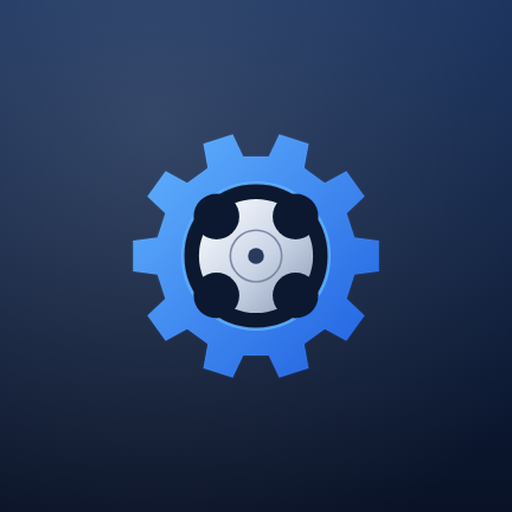
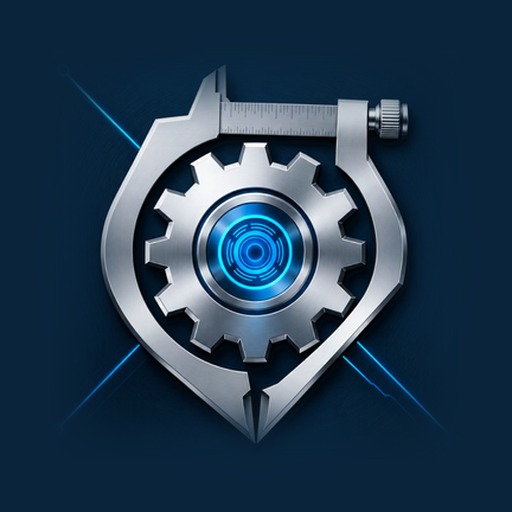
Hich-Officina 2.28.1: nuova icona, testata e sfondo fatti con Canva
Claude-Session: https://claude.ai/code/session_01BbyHZTctjVowPbLungDKds

diff --git a/app.js b/app.js
@@ -108,7 +108,7 @@
 
   // ----- impostazioni -----
   const IMPOSTAZIONI_SERIE = {
-    tema: 'scuro', guanti: false, tastierino: true, contrasto: false, promemoriaCopia: true, ftpChiedi: true, nmaxFresa: 24000, nmaxTornio: 3000, zSic: 50, zR: 2, refrig: true, g43: true, numerare: false,
+    tema: 'scuro', guanti: false, sfondo: true, tastierino: true, contrasto: false, promemoriaCopia: true, ftpChiedi: true, nmaxFresa: 24000, nmaxTornio: 3000, zSic: 50, zR: 2, refrig: true, g43: true, numerare: false,
     codLimite: 'G50', codFiletto: 'G32', xCambio: '', zCambio: 50, fineZ: '', numProg: 1, costoOra: 60,
     postFresa: 'iso', postTornio: 'iso', ftpHost: '', ftpPorta: 21, ftpUtente: '', ftpPassword: '', ftpCartella: '', nomeFtp: 'O0001.nc'
   };
@@ -120,6 +120,7 @@
     else document.documentElement.removeAttribute('data-theme');
     document.body.classList.toggle('guanti', !!imp().guanti);
     document.body.classList.toggle('contrasto', !!imp().contrasto);
+    document.body.classList.toggle('con-sfondo', imp().sfondo !== false);
   }
 
   // ----- materiali: quelli di serie con le modifiche fatte sul telefono -----
@@ -447,7 +448,7 @@
     migra, hash, chiedi, conferma, SCHEMA,
     O, $, el, esc, fmt, arrot, icona, mem, salva, sezione, imp, IMPOSTAZIONI_SERIE, applicaTema, materiali, materiale, sceltaMateriali,
     avviso, modulo, numeri, ANDROID, misuratore, griglia, info, copia, scarica, condividi, condividiFile, salvaIn, stampa, scegliTesto, Foto, riduciFoto, pulsantiFoto, schermoPieno, ruotaSchermo, campoNum, chiudiTastierino, mailSegnalazione,
-    schermi: {}, param: {}, VERSIONE: '2.28.0'
+    schermi: {}, param: {}, VERSIONE: '2.28.1'
   };
   window.App = App;
 
@@ -497,28 +498,9 @@
   window.addEventListener('hashchange', () => { App._dentro = true; mostra(); });
 
   // ----- home -----
-  const SCENA = '<svg class="scena" viewBox="0 0 400 250" preserveAspectRatio="xMidYMid slice" role="img" aria-label="Fresa che lavora un blocco di acciaio">' +
-    '<defs><linearGradient id="gC" x1="0" y1="0" x2="0" y2="1"><stop offset="0" stop-color="#1a2b4a"/><stop offset="1" stop-color="#070c16"/></linearGradient>' +
-    '<linearGradient id="gM" x1="0" y1="0" x2="1" y2="0"><stop offset="0" stop-color="#5b6678"/><stop offset=".45" stop-color="#d9e1ec"/><stop offset="1" stop-color="#4a5466"/></linearGradient>' +
-    '<linearGradient id="gF" x1="0" y1="0" x2="1" y2="0"><stop offset="0" stop-color="#6b7486"/><stop offset=".5" stop-color="#f2f5fa"/><stop offset="1" stop-color="#5a6274"/></linearGradient>' +
-    '<linearGradient id="gB" x1="0" y1="0" x2="0" y2="1"><stop offset="0" stop-color="#9aa6b8"/><stop offset="1" stop-color="#4b5567"/></linearGradient>' +
-    '<radialGradient id="gL" cx=".62" cy=".35" r=".6"><stop offset="0" stop-color="#3d7bff" stop-opacity=".35"/><stop offset="1" stop-color="#3d7bff" stop-opacity="0"/></radialGradient></defs>' +
-    '<rect width="400" height="250" fill="url(#gC)"/><rect width="400" height="250" fill="url(#gL)"/>' +
-    '<g opacity=".18" stroke="#8fb4ff" stroke-width=".6">' + Array.from({ length: 9 }, (_, i) => '<path d="M' + (i * 50) + ' 0v250"/>').join('') + '</g>' +
-    // mandrino
-    '<rect x="196" y="-10" width="96" height="62" rx="6" fill="url(#gM)"/><rect x="206" y="52" width="76" height="20" rx="3" fill="#3a4354"/>' +
-    '<path d="M214 72h60l-8 26h-44z" fill="url(#gM)"/><rect x="230" y="98" width="28" height="14" fill="#2c3442"/>' +
-    // fresa con le eliche
-    '<rect x="234" y="112" width="20" height="62" fill="url(#gF)"/>' +
-    '<g stroke="#4a5262" stroke-width="2.2" fill="none"><path d="M234 120l20 9M234 133l20 9M234 146l20 9M234 159l20 9"/></g>' +
-    // blocco
-    '<path d="M70 176l150-34 140 26-150 40z" fill="#c3ccd8"/><path d="M70 176v44l140 30v-42z" fill="url(#gB)"/><path d="M210 208v42l150-38v-44z" fill="#5d6779"/>' +
-    '<path d="M170 168l60-12 58 10-60 13z" fill="#7d889a"/><path d="M170 168v10l58 12v-11z" fill="#6a7486"/>' +
-    // trucioli
-    '<g fill="#e3c27a" opacity=".9"><path d="M262 168c8-6 14-2 10 4-3 4-8 2-6-1"/><path d="M216 172c-6-5-12-1-8 4 3 3 7 1 5-1"/><path d="M280 150c6-3 9 1 6 4"/><path d="M200 160c-5-2-8 2-5 4"/></g>' +
-    '<g fill="#fff" opacity=".7"><circle cx="270" cy="160" r="1.4"/><circle cx="290" cy="170" r="1"/><circle cx="210" cy="164" r="1.2"/></g>' +
-    '<rect y="150" width="400" height="100" fill="url(#gC)" opacity=".35"/></svg>';
-  const MARCHIO = '<svg viewBox="0 0 512 512" aria-hidden="true"><defs><linearGradient id="mg" x1="0" y1="0" x2="1" y2="1"><stop offset="0" stop-color="#63b4ff"/><stop offset="1" stop-color="#1f5fe0"/></linearGradient><linearGradient id="ma" x1="0" y1="0" x2="1" y2="1"><stop offset="0" stop-color="#ffffff"/><stop offset=".55" stop-color="#c9d4e6"/><stop offset="1" stop-color="#8a98b2"/></linearGradient><linearGradient id="mb" x1="0" y1="0" x2="0" y2="1"><stop offset="0" stop-color="#17305c"/><stop offset="1" stop-color="#091226"/></linearGradient><radialGradient id="ml" cx=".3" cy=".25" r=".9"><stop offset="0" stop-color="#fff" stop-opacity=".14"/><stop offset="1" stop-color="#fff" stop-opacity="0"/></radialGradient></defs><path d="M415.1,225.6 L454.4,230.9 L454.4,281.1 L415.1,286.4 L402.6,325.0 L431.3,352.4 L401.8,392.9 L366.9,374.1 L334.0,398.0 L341.2,437.0 L293.5,452.5 L276.3,416.7 L235.7,416.7 L218.5,452.5 L170.8,437.0 L178.0,398.0 L145.1,374.1 L110.2,392.9 L80.7,352.4 L109.4,325.0 L96.9,286.4 L57.6,281.1 L57.6,230.9 L96.9,225.6 L109.4,187.0 L80.7,159.6 L110.2,119.1 L145.1,137.9 L178.0,114.0 L170.8,75.0 L218.5,59.5 L235.7,95.3 L276.3,95.3 L293.5,59.5 L341.2,75.0 L334.0,114.0 L366.9,137.9 L401.8,119.1 L431.3,159.6 L402.6,187.0 Z" fill="url(#mg)"/><circle cx="256" cy="256" r="118.0" fill="#0b1830"/><circle cx="256" cy="256" r="118.0" fill="none" stroke="#5db0ff" stroke-width="5.0" opacity=".9"/><circle cx="256.0" cy="256.0" r="92.0" fill="url(#ma)"/><circle cx="319.8" cy="319.8" r="36.8" fill="#0b1830"/><circle cx="192.2" cy="319.8" r="36.8" fill="#0b1830"/><circle cx="192.2" cy="192.2" r="36.8" fill="#0b1830"/><circle cx="319.8" cy="192.2" r="36.8" fill="#0b1830"/><circle cx="256" cy="256" r="41.4" fill="none" stroke="#7d8aa6" stroke-width="3.0"/><circle cx="256" cy="256" r="12.9" fill="#2a3a5c"/></svg>';
+  // testata della home e marchio: immagini (icone/testata.jpg, icone/icona-192.png)
+  const SCENA = '<img class="scena" src="icone/testata.jpg" width="1170" height="630" alt="Fresa che lavora un ingranaggio in acciaio" decoding="async">';
+  const MARCHIO = '<img src="icone/icona-192.png" width="64" height="64" alt="" decoding="async">';
 
   const MENU = [
     ['dalDisegno', 'galleria', 'Dal disegno al pezzo', 'Foto del disegno: le quote lette e confermate diventano il pezzo e il programma'],

diff --git a/novita.html b/novita.html
@@ -9,14 +9,14 @@
 <meta property="og:type" content="website">
 <meta property="og:title" content="Novita · Hich-Officina">
 <meta property="og:description" content="Cronologia delle versioni di Hich-Officina.">
-<link rel="icon" href="icone/icona.svg" type="image/svg+xml">
+<link rel="icon" href="icone/icona-192.png" type="image/png">
 <link rel="apple-touch-icon" href="icone/icona-192.png">
 <link rel="stylesheet" href="sito.css">
 </head>
 <body>
 <a class="salta" href="#contenuto">Vai al contenuto</a>
 <header class="testata"><div class="largo">
-  <a class="marchio" href="index.html"><img src="icone/icona.svg" alt="" width="32" height="32"><span>Hich-Officina</span></a>
+  <a class="marchio" href="index.html"><img src="icone/icona-192.png" alt="" width="32" height="32"><span>Hich-Officina</span></a>
   <nav aria-label="Principale"><ul><li><a href="index.html">Home</a></li><li><a href="index.html#funzioni">Funzioni</a></li><li><a href="index.html#installa">Installa</a></li><li><a href="guida.html">Guida</a></li><li><a href="novita.html" aria-current="page">Novita</a></li><li><a href="privacy.html">Privacy</a></li></ul></nav>
   <a class="pul corto" href="app.html">Apri l'app</a>
 </div></header>
@@ -24,6 +24,7 @@
 <section class="sezione"><div class="largo stretto">
   <h1>Novita</h1>
   <p class="sotto">Cosa e cambiato in ogni versione, dalla piu recente.</p>
+  <article class="versione"><h2><span class="num">2.28.1</span> Nuova icona, testata e sfondo (fatti con Canva)</h2><ul><li>**Nuova icona**: un calibro che racchiude un ingranaggio con il centro azzurro, acciaio su blu notte. Per il telefono (quadrata e tonda di Android), per il negozio e per il sito. La cornice dell'immagine originale e stata tolta per usarla a tutto campo.</li><li>**Nuova testata della home**: un ingranaggio, il mandrino e le scintille. Dall'immagine originale sono ritagliati i pannelli con scritte in inglese e dati finti, che nell'app non devono comparire; sopra c'e una sfumatura scura per leggere titolo e ricerca.</li><li>**Sfondo con immagine** dietro le schermate (metallo scuro con ingranaggi), con una velatura che tiene i testi leggibili. Si toglie da Impostazioni, &quot;Sfondo con immagine&quot;; nel tema chiaro non c'e.</li><li>Il marchio nella home usa la nuova icona. Le immagini sono leggere (testata e sfondo meno di 200 KB) e funzionano anche senza rete.</li><li>Una prova controlla misure e peso delle immagini, che il funzionamento senza rete le includa e che lo sfondo non renda illeggibili i testi.</li></ul></article>
   <article class="versione"><h2><span class="num">2.28.0</span> Grafica: un colore per gruppo</h2><ul><li>La home ha **un colore per ogni gruppo**: Calcola giallo, Controlla verde, Officina viola, con il bordo colorato e l'icona nello stesso colore. Il blu resta il colore principale dell'app.</li><li>**Blu piu profondo** nel tema scuro (fondo, pannelli e bordi) e testi secondari piu leggibili.</li><li>**Tema chiaro** con i colori dei gruppi scuriti per leggersi bene sul bianco.</li><li>Una **prova automatica controlla il contrasto** (livello AA) di testi, pulsanti e colori dei gruppi in entrambi i temi.</li></ul></article>
   <article class="versione"><h2><span class="num">2.27.0</span> Velocita di taglio e avanzamento in primo piano</h2><ul><li>**In cima alla home** c'e il calcolo rapido: materiale, utensile e diametro (con il tastierino grande e i taglienti a un tocco) danno subito **giri al minuto, avanzamento e velocita di taglio**, piu fz o fn, passata e passo laterale.</li><li>Vale per tutti gli utensili (fresa, punta, alesatore, bareno, maschio, lamatore, inserto da tornio) e usa gli stessi dati della calcolatrice completa: i valori restano gli stessi tra le due. Il tasto &quot;Completa&quot; apre la calcolatrice con tutti gli utensili.</li><li>I giri restano limitati al massimo delle Impostazioni, e la nota ricorda che i valori sono di partenza.</li></ul></article>
   <article class="versione"><h2><span class="num">2.26.0</span> Segnala un problema</h2><ul><li>**Impostazioni, &quot;Segnala un problema&quot;**: apre l'email gia scritta con versione, schermata, telefono e misura dello schermo, per i tester e per chi usa l'app.</li><li>L'indirizzo di contatto viene da `sito.json` (copiato in `contatto.js` da `node tools/sito.js`): non e scritto nel codice.</li><li>`docs/TEST_CHIUSO.md`: come iscrivere i tester, il messaggio da mandare, le cinque prove e cosa chiedere nel resoconto.</li></ul></article>
@@ -59,7 +60,7 @@
 </div></section>
 </main>
 <footer class="piede"><div class="largo">
-  <p><b>Hich-Officina</b> 2.28.0 · Hich Tools</p>
+  <p><b>Hich-Officina</b> 2.28.1 · Hich Tools</p>
   <p class="piccolo">I valori di taglio e i programmi sono di partenza e indicativi: vanno sempre controllati e provati a vuoto prima di lavorare. I nomi dei controlli citati nell'app indicano solo la compatibilita e appartengono ai rispettivi proprietari.</p>
   <p class="piccolo"><a href="privacy.html">Privacy</a> · <a href="guida.html">Guida</a> · <a href="novita.html">Novita</a> · <a href="mailto:hichamloukili2020195@gmail.com">hichamloukili2020195@gmail.com</a></p>
 </div></footer>

diff --git a/prove/ui.js b/prove/ui.js
@@ -722,6 +722,42 @@ const server = http.createServer((q, r) => {
     await vai('home');
   }
 
+  // ===== 2.28.1: testata, marchio e sfondo con immagine =====
+  {
+    await vai('home'); await pg.waitForTimeout(150);
+    const imgs = await pg.evaluate(() => ({ testata: (() => { const i = document.querySelector('.eroe img.scena'); return i ? [i.complete, i.naturalWidth, i.naturalHeight, i.getBoundingClientRect().height] : null; })(),
+      marchio: (() => { const i = document.querySelector('.eroe .marchio img'); return i ? [i.complete, i.naturalWidth] : null; })(), svgVecchia: !!document.querySelector('.eroe svg.scena') }));
+    ok(imgs.testata && imgs.testata[0] && imgs.testata[1] === 1170 && imgs.testata[2] === 630 && imgs.testata[3] > 180 && imgs.testata[3] < 240, 'testata della home: ' + JSON.stringify(imgs.testata));
+    ok(imgs.marchio && imgs.marchio[0] && imgs.marchio[1] === 192 && !imgs.svgVecchia, 'marchio con la nuova icona');
+    ok((await pg.textContent('.eroe .marchio')).includes('Hich-Officina'), 'titolo sopra la testata');
+    ok(await pg.evaluate(() => document.body.classList.contains('con-sfondo')), 'sfondo con immagine acceso di serie');
+    const vis = () => pg.evaluate(() => { const s = getComputedStyle(document.body, '::after'); return [s.content !== 'none' && s.display !== 'none', s.backgroundImage.includes('sfondo.jpg'), s.position, s.zIndex]; });
+    const v1 = await vis(); ok(v1[0] && v1[1] && v1[2] === 'fixed' && v1[3] === '-1', 'sfondo dietro i contenuti: ' + JSON.stringify(v1));
+    // si spegne dalle Impostazioni
+    await vai('impostazioni'); await pg.waitForTimeout(80);
+    await pg.uncheck('#f-sfondo'); await pg.waitForTimeout(60);
+    ok(!(await pg.evaluate(() => document.body.classList.contains('con-sfondo'))) && !(await vis())[0], 'sfondo spento dalle impostazioni');
+    await pg.check('#f-sfondo'); await pg.waitForTimeout(60);
+    ok(await pg.evaluate(() => document.body.classList.contains('con-sfondo')), 'sfondo riacceso');
+    // il tema chiaro non ha lo sfondo scuro
+    await pg.selectOption('#f-tema', 'chiaro'); await pg.waitForTimeout(80);
+    ok(!(await vis())[0], 'tema chiaro: niente sfondo con immagine');
+    await foto('49-home-chiaro-con-immagini');
+    await pg.selectOption('#f-tema', 'scuro'); await pg.waitForTimeout(60);
+    // i testi restano leggibili sopra lo sfondo: il colore piu chiaro possibile dell'immagine, sotto la velatura, e scuro
+    const lum = await pg.evaluate(async () => {
+      const im = new Image(); im.src = 'icone/sfondo.jpg'; await im.decode();
+      const c = document.createElement('canvas'); c.width = 90; c.height = 160; const g = c.getContext('2d'); g.drawImage(im, 0, 0, 90, 160);
+      const d = g.getImageData(0, 0, 90, 160).data; let max = 0, somma = 0;
+      for (let i = 0; i < d.length; i += 4) { const l = 0.2126 * d[i] + 0.7152 * d[i + 1] + 0.0722 * d[i + 2]; max = Math.max(max, l); somma += l; }
+      const vel = [7, 13, 26], a = 0.85, pix = (v, k) => a * vel[k] + (1 - a) * v;
+      const resa = 0.2126 * pix(max, 0) + 0.7152 * pix(max, 1) + 0.0722 * pix(max, 2);
+      return [Math.round(max), Math.round(somma / (d.length / 4)), Math.round(resa)];
+    });
+    ok(lum[2] < 70, 'sotto la velatura anche il punto piu chiaro dello sfondo e scuro: ' + lum.join(','));
+    await vai('home');
+  }
+
   // ===== 2.27.0: velocita di taglio e avanzamento in primo piano =====
   {
     await pg.evaluate(() => { Object.keys(App.sezione('utensili')).forEach(k => delete App.sezione('utensili')[k]); App.salva(); App.ridisegna(); });

diff --git a/prove/prove.js b/prove/prove.js
@@ -835,4 +835,21 @@ prova('grafica: contrasto dei colori (WCAG AA) nel tema scuro e in quello chiaro
   assert.notStrictEqual(scuro.fondo, chiaro.fondo);
   assert.ok(parseInt(scuro.accento.slice(5, 7), 16) > parseInt(scuro.accento.slice(1, 3), 16), 'accento blu: piu blu che rosso');
 });
+prova('immagini: icona, testata e sfondo (misure, peso, nel funzionamento senza rete)', () => {
+  const fs = require('fs'), path = require('path'), r = p => path.join(__dirname, '..', p);
+  const png = p => { const b = fs.readFileSync(r(p)); assert.strictEqual(b.slice(1, 4).toString(), 'PNG', p); return [b.readUInt32BE(16), b.readUInt32BE(20)]; };
+  const jpg = p => { const b = fs.readFileSync(r(p)); assert.strictEqual(b[0], 0xff); assert.strictEqual(b[1], 0xd8); let i = 2; while (i < b.length) { if (b[i] !== 0xff) { i++; continue; } const m = b[i + 1]; if (m >= 0xc0 && m <= 0xc3) return [b.readUInt16BE(i + 7), b.readUInt16BE(i + 5)]; i += 2 + b.readUInt16BE(i + 2); } return null; };
+  assert.deepStrictEqual(png('icone/icona-512.png'), [512, 512]); assert.deepStrictEqual(png('icone/icona-192.png'), [192, 192]); assert.deepStrictEqual(png('icone/icona-maskable-512.png'), [512, 512]);
+  [['mdpi', 48], ['hdpi', 72], ['xhdpi', 96], ['xxhdpi', 144], ['xxxhdpi', 192]].forEach(([d, n]) => assert.deepStrictEqual(png('android/app/src/main/res/mipmap-' + d + '/ic_launcher.png'), [n, n], d));
+  assert.deepStrictEqual(png('android/app/src/main/res/drawable-nodpi/ic_primo_piano.png'), [432, 432]); assert.deepStrictEqual(png('android/app/src/main/res/drawable-nodpi/ic_sfondo.png'), [432, 432]);
+  const th = jpg('icone/testata.jpg'), sf = jpg('icone/sfondo.jpg');
+  assert.deepStrictEqual(th, [1170, 630]); assert.ok(sf[0] >= 600 && sf[1] / sf[0] > 1.6 && sf[1] / sf[0] < 2.1, 'sfondo verticale');
+  ['icone/testata.jpg', 'icone/sfondo.jpg'].forEach(p => assert.ok(fs.statSync(r(p)).size < 300 * 1024, p + ' troppo pesante'));
+  const sw = fs.readFileSync(r('sw.js'), 'utf8');
+  ['testata.jpg', 'sfondo.jpg', 'icona-192.png', 'icona-512.png', 'icona-maskable-512.png'].forEach(f => assert.ok(sw.includes('./icone/' + f), 'sw.js non ha ' + f));
+  const html = ['app.html', 'index.html', 'guida.html', 'novita.html', 'privacy.html', '404.html', 'sw.js', 'manifest.webmanifest', 'tools/sito.js'].map(f => fs.readFileSync(r(f), 'utf8')).join('\n');
+  assert.ok(!html.includes('icona.svg'), 'resta un riferimento a icona.svg, che non c\'e piu');
+  // tutte le immagini nominate dai file esistono
+  (html.match(/icone\/[a-z0-9-]+\.(?:png|jpg)/g) || []).forEach(f => assert.ok(fs.existsSync(r(f)), 'manca ' + f));
+});
 console.log(process.exitCode ? 'PROVE FALLITE' : 'OK ' + n + ' prove');

diff --git a/index.html b/index.html
@@ -9,14 +9,14 @@
 <meta property="og:type" content="website">
 <meta property="og:title" content="Hich-Officina: calcoli e programmi CNC per fresa e tornio">
 <meta property="og:description" content="Calcoli di taglio, programmi ISO, macro, simulazione e controllo degli errori per fresatori e tornitori. Sul telefono, anche senza rete.">
-<link rel="icon" href="icone/icona.svg" type="image/svg+xml">
+<link rel="icon" href="icone/icona-192.png" type="image/png">
 <link rel="apple-touch-icon" href="icone/icona-192.png">
 <link rel="stylesheet" href="sito.css">
 </head>
 <body>
 <a class="salta" href="#contenuto">Vai al contenuto</a>
 <header class="testata"><div class="largo">
-  <a class="marchio" href="index.html"><img src="icone/icona.svg" alt="" width="32" height="32"><span>Hich-Officina</span></a>
+  <a class="marchio" href="index.html"><img src="icone/icona-192.png" alt="" width="32" height="32"><span>Hich-Officina</span></a>
   <nav aria-label="Principale"><ul><li><a href="index.html" aria-current="page">Home</a></li><li><a href="index.html#funzioni">Funzioni</a></li><li><a href="index.html#installa">Installa</a></li><li><a href="guida.html">Guida</a></li><li><a href="novita.html">Novita</a></li><li><a href="privacy.html">Privacy</a></li></ul></nav>
   <a class="pul corto" href="app.html">Apri l'app</a>
 </div></header>
@@ -61,7 +61,7 @@
 <script>(function () { var a = document.getElementById('apk'); if (!a) return; var u = a.getAttribute('data-apk'); if (!u) { var h = location.hostname.split('.'), r = location.pathname.split('/')[1]; if (h.length >= 3 && r && h[1] === 'github') u = 'https://github.com/' + h[0] + '/' + r + '/releases/download/apk/Hich-Officina.apk'; } if (u) a.href = u; else a.hidden = true; })();</script>
 </main>
 <footer class="piede"><div class="largo">
-  <p><b>Hich-Officina</b> 2.28.0 · Hich Tools</p>
+  <p><b>Hich-Officina</b> 2.28.1 · Hich Tools</p>
   <p class="piccolo">I valori di taglio e i programmi sono di partenza e indicativi: vanno sempre controllati e provati a vuoto prima di lavorare. I nomi dei controlli citati nell'app indicano solo la compatibilita e appartengono ai rispettivi proprietari.</p>
   <p class="piccolo"><a href="privacy.html">Privacy</a> · <a href="guida.html">Guida</a> · <a href="novita.html">Novita</a> · <a href="mailto:hichamloukili2020195@gmail.com">hichamloukili2020195@gmail.com</a></p>
 </div></footer>

diff --git a/404.html b/404.html
@@ -10,14 +10,14 @@
 <meta property="og:type" content="website">
 <meta property="og:title" content="Pagina non trovata · Hich-Officina">
 <meta property="og:description" content="Pagina non trovata.">
-<link rel="icon" href="icone/icona.svg" type="image/svg+xml">
+<link rel="icon" href="icone/icona-192.png" type="image/png">
 <link rel="apple-touch-icon" href="icone/icona-192.png">
 <link rel="stylesheet" href="sito.css">
 </head>
 <body>
 <a class="salta" href="#contenuto">Vai al contenuto</a>
 <header class="testata"><div class="largo">
-  <a class="marchio" href="index.html"><img src="icone/icona.svg" alt="" width="32" height="32"><span>Hich-Officina</span></a>
+  <a class="marchio" href="index.html"><img src="icone/icona-192.png" alt="" width="32" height="32"><span>Hich-Officina</span></a>
   <nav aria-label="Principale"><ul><li><a href="index.html">Home</a></li><li><a href="index.html#funzioni">Funzioni</a></li><li><a href="index.html#installa">Installa</a></li><li><a href="guida.html">Guida</a></li><li><a href="novita.html">Novita</a></li><li><a href="privacy.html">Privacy</a></li></ul></nav>
   <a class="pul corto" href="app.html">Apri l'app</a>
 </div></header>
@@ -25,7 +25,7 @@
 <section class="sezione"><div class="largo stretto"><h1>Pagina non trovata</h1><p class="sotto">L'indirizzo non esiste piu o e scritto male.</p><p class="azioni"><a class="pul" href="index.html">Torna alla home</a> <a class="pul sec" href="app.html">Apri l'app</a></p></div></section>
 </main>
 <footer class="piede"><div class="largo">
-  <p><b>Hich-Officina</b> 2.28.0 · Hich Tools</p>
+  <p><b>Hich-Officina</b> 2.28.1 · Hich Tools</p>
   <p class="piccolo">I valori di taglio e i programmi sono di partenza e indicativi: vanno sempre controllati e provati a vuoto prima di lavorare. I nomi dei controlli citati nell'app indicano solo la compatibilita e appartengono ai rispettivi proprietari.</p>
   <p class="piccolo"><a href="privacy.html">Privacy</a> · <a href="guida.html">Guida</a> · <a href="novita.html">Novita</a> · <a href="mailto:hichamloukili2020195@gmail.com">hichamloukili2020195@gmail.com</a></p>
 </div></footer>

diff --git a/privacy.html b/privacy.html
@@ -9,14 +9,14 @@
 <meta property="og:type" content="website">
 <meta property="og:title" content="Informativa sulla privacy · Hich-Officina">
 <meta property="og:description" content="Hich-Officina non raccoglie ne invia dati personali: tutto resta sul tuo telefono.">
-<link rel="icon" href="icone/icona.svg" type="image/svg+xml">
+<link rel="icon" href="icone/icona-192.png" type="image/png">
 <link rel="apple-touch-icon" href="icone/icona-192.png">
 <link rel="stylesheet" href="sito.css">
 </head>
 <body>
 <a class="salta" href="#contenuto">Vai al contenuto</a>
 <header class="testata"><div class="largo">
-  <a class="marchio" href="index.html"><img src="icone/icona.svg" alt="" width="32" height="32"><span>Hich-Officina</span></a>
+  <a class="marchio" href="index.html"><img src="icone/icona-192.png" alt="" width="32" height="32"><span>Hich-Officina</span></a>
   <nav aria-label="Principale"><ul><li><a href="index.html">Home</a></li><li><a href="index.html#funzioni">Funzioni</a></li><li><a href="index.html#installa">Installa</a></li><li><a href="guida.html">Guida</a></li><li><a href="novita.html">Novita</a></li><li><a href="privacy.html" aria-current="page">Privacy</a></li></ul></nav>
   <a class="pul corto" href="app.html">Apri l'app</a>
 </div></header>
@@ -54,7 +54,7 @@
 </div></section>
 </main>
 <footer class="piede"><div class="largo">
-  <p><b>Hich-Officina</b> 2.28.0 · Hich Tools</p>
+  <p><b>Hich-Officina</b> 2.28.1 · Hich Tools</p>
   <p class="piccolo">I valori di taglio e i programmi sono di partenza e indicativi: vanno sempre controllati e provati a vuoto prima di lavorare. I nomi dei controlli citati nell'app indicano solo la compatibilita e appartengono ai rispettivi proprietari.</p>
   <p class="piccolo"><a href="privacy.html">Privacy</a> · <a href="guida.html">Guida</a> · <a href="novita.html">Novita</a> · <a href="mailto:hichamloukili2020195@gmail.com">hichamloukili2020195@gmail.com</a></p>
 </div></footer>

diff --git a/guida.html b/guida.html
@@ -9,14 +9,14 @@
 <meta property="og:type" content="website">
 <meta property="og:title" content="Guida · Hich-Officina">
 <meta property="og:description" content="Come si fa: ogni funzione di Hich-Officina in pochi passi, con un esempio.">
-<link rel="icon" href="icone/icona.svg" type="image/svg+xml">
+<link rel="icon" href="icone/icona-192.png" type="image/png">
 <link rel="apple-touch-icon" href="icone/icona-192.png">
 <link rel="stylesheet" href="sito.css">
 </head>
 <body>
 <a class="salta" href="#contenuto">Vai al contenuto</a>
 <header class="testata"><div class="largo">
-  <a class="marchio" href="index.html"><img src="icone/icona.svg" alt="" width="32" height="32"><span>Hich-Officina</span></a>
+  <a class="marchio" href="index.html"><img src="icone/icona-192.png" alt="" width="32" height="32"><span>Hich-Officina</span></a>
   <nav aria-label="Principale"><ul><li><a href="index.html">Home</a></li><li><a href="index.html#funzioni">Funzioni</a></li><li><a href="index.html#installa">Installa</a></li><li><a href="guida.html" aria-current="page">Guida</a></li><li><a href="novita.html">Novita</a></li><li><a href="privacy.html">Privacy</a></li></ul></nav>
   <a class="pul corto" href="app.html">Apri l'app</a>
 </div></header>
@@ -45,7 +45,7 @@
 </div></section>
 </main>
 <footer class="piede"><div class="largo">
-  <p><b>Hich-Officina</b> 2.28.0 · Hich Tools</p>
+  <p><b>Hich-Officina</b> 2.28.1 · Hich Tools</p>
   <p class="piccolo">I valori di taglio e i programmi sono di partenza e indicativi: vanno sempre controllati e provati a vuoto prima di lavorare. I nomi dei controlli citati nell'app indicano solo la compatibilita e appartengono ai rispettivi proprietari.</p>
   <p class="piccolo"><a href="privacy.html">Privacy</a> · <a href="guida.html">Guida</a> · <a href="novita.html">Novita</a> · <a href="mailto:hichamloukili2020195@gmail.com">hichamloukili2020195@gmail.com</a></p>
 </div></footer>

diff --git a/schermi_altro.js b/schermi_altro.js
@@ -330,11 +330,11 @@
         }
         if (s.ftpChiedi) s.ftpPassword = '';   // chiesta a ogni invio: non si tiene
         A.mem.imp = s; A.salva();
-        if (id === 'tema' || id === 'guanti' || id === 'contrasto') A.applicaTema();
+        if (id === 'tema' || id === 'guanti' || id === 'contrasto' || id === 'sfondo') A.applicaTema();
       };
       const blocco = (tit, campi) => { m.appendChild(el('div', { class: 'sez', testo: tit })); const p = el('div', { class: 'pannello' }); m.appendChild(p); A.modulo(p, campi, v, salva); };
       blocco('Aspetto', [{ id: 'tema', et: 'Tema', tipo: 'scelta', scelte: [['scuro', 'Scuro'], ['chiaro', 'Chiaro'], ['auto', 'Come il telefono']] },
-        { id: 'guanti', et: 'Modalita guanti: testi e pulsanti piu grandi', tipo: 'spunta' }, { id: 'contrasto', et: 'Contrasto alto (officine luminose)', tipo: 'spunta' }, { id: 'tastierino', et: 'Tastierino numerico grande dell\'app (invece della tastiera del telefono)', tipo: 'spunta' }]);
+        { id: 'sfondo', et: 'Sfondo con immagine (solo tema scuro)', tipo: 'spunta' }, { id: 'guanti', et: 'Modalita guanti: testi e pulsanti piu grandi', tipo: 'spunta' }, { id: 'contrasto', et: 'Contrasto alto (officine luminose)', tipo: 'spunta' }, { id: 'tastierino', et: 'Tastierino numerico grande dell\'app (invece della tastiera del telefono)', tipo: 'spunta' }]);
       blocco('Fresatrice', [{ id: 'nmaxFresa', et: 'Giri massimi mandrino', u: 'giri/min' }, { id: 'zSic', et: 'Z di sicurezza', u: 'mm' }, { id: 'zR', et: 'Piano R dei cicli', u: 'mm' },
         { id: 'fineZ', et: 'Z a fine programma', sub: 'vuoto = Z di sicurezza', u: 'mm' }, { id: 'g43', et: 'Correzione lunghezza G43 H', tipo: 'spunta' }]);
       blocco('Tornio', [{ id: 'nmaxTornio', et: 'Giri massimi mandrino', u: 'giri/min' }, { id: 'codLimite', et: 'Limite giri', tipo: 'scelta', scelte: [['G50', 'G50 S...'], ['G92', 'G92 S...']] },

diff --git a/tools/sito.js b/tools/sito.js
@@ -26,14 +26,14 @@ function pagina({ file, titolo, descrizione, corpo, attiva, indicizza = true }) 
 ${indicizza ? '' : '<meta name="robots" content="noindex">\n'}<meta property="og:type" content="website">
 <meta property="og:title" content="${esc(t)}">
 <meta property="og:description" content="${esc(descrizione)}">
-${base ? '<meta property="og:image" content="' + base + 'icone/icona-512.png">\n<link rel="canonical" href="' + base + (file === 'index.html' ? '' : file) + '">\n' : ''}<link rel="icon" href="icone/icona.svg" type="image/svg+xml">
+${base ? '<meta property="og:image" content="' + base + 'icone/icona-512.png">\n<link rel="canonical" href="' + base + (file === 'index.html' ? '' : file) + '">\n' : ''}<link rel="icon" href="icone/icona-192.png" type="image/png">
 <link rel="apple-touch-icon" href="icone/icona-192.png">
 <link rel="stylesheet" href="sito.css">
 </head>
 <body>
 <a class="salta" href="#contenuto">Vai al contenuto</a>
 <header class="testata"><div class="largo">
-  <a class="marchio" href="index.html"><img src="icone/icona.svg" alt="" width="32" height="32"><span>Hich-Officina</span></a>
+  <a class="marchio" href="index.html"><img src="icone/icona-192.png" alt="" width="32" height="32"><span>Hich-Officina</span></a>
   <nav aria-label="Principale"><ul>${NAV.map(([h, n]) => `<li><a href="${h}"${attiva === h ? ' aria-current="page"' : ''}>${n}</a></li>`).join('')}</ul></nav>
   <a class="pul corto" href="app.html">Apri l'app</a>
 </div></header>

diff --git a/stile.css b/stile.css
@@ -590,3 +590,14 @@ body.con-tastierino .lav-barra{display:none}
 .ingresso[data-gruppo=controlla] .ic{background:color-mix(in srgb,var(--g-controlla) 20%,transparent);color:var(--g-controlla)}
 .ingresso[data-gruppo=officina] .ic{background:color-mix(in srgb,var(--g-officina) 20%,transparent);color:var(--g-officina)}
 .ingresso.primo{background:linear-gradient(135deg,#2f7bff,#1747c9)}
+
+/* ===== 2.28.1: testata e sfondo con immagine ===== */
+.eroe img.scena{display:block;width:100%;height:auto;aspect-ratio:1170/630;max-width:100%;object-fit:cover}
+.eroe::after{content:"";position:absolute;inset:auto 0 0 0;height:62%;background:linear-gradient(to top,rgba(5,10,22,.94),rgba(5,10,22,.55) 55%,transparent);pointer-events:none}
+.eroe .marchio{z-index:1}
+.eroe .marchio img{width:64px;height:64px;flex:0 0 auto;border-radius:15px;box-shadow:0 4px 14px rgba(0,0,0,.55)}
+body.con-sfondo::after{content:"";position:fixed;inset:0;z-index:-1;pointer-events:none;
+  background:linear-gradient(rgba(7,13,26,.82),rgba(7,13,26,.88)),url(icone/sfondo.jpg) center/cover no-repeat}
+:root[data-theme="light"] body.con-sfondo::after{display:none}
+@media (prefers-color-scheme: light){:root:not([data-theme="dark"]) body.con-sfondo::after{display:none}}
+@media (min-width:760px){.eroe img.scena{height:260px;aspect-ratio:auto}}

diff --git a/sw.js b/sw.js
@@ -1,8 +1,8 @@
 // Cache per usare l'app senza rete. Cambia VERSIONE a ogni aggiornamento dei file.
-const VERSIONE = 'hich-officina-2.28.0';
+const VERSIONE = 'hich-officina-2.28.1';
 const FILE = ['./app.html', './stile.css', './calcoli.js', './programmi.js', './profilo.js', './filetti.js', './iso.js', './post.js', './ciclo.js', './cad.js', './lavoro.js', './disegno_foto.js', './contatto.js', './app.js', './schermi_calcoli.js',
   './schermi_programma.js', './schermi_macro.js', './schermi_altro.js', './schermi_iso.js', './schermi_officina.js', './schermi_disegno.js', './schermi_cad.js', './schermi_lavoro.js', './schermi_disegno_foto.js', './schermi_ciclo.js', './schermi_angolo.js', './schermi_dati.js', './guida_dati.js', './schermi_guida.js', './manifest.webmanifest',
-  './icone/icona.svg', './icone/icona-192.png', './icone/icona-512.png', './icone/icona-maskable-512.png'];
+  './icone/icona-192.png', './icone/testata.jpg', './icone/sfondo.jpg', './icone/icona-512.png', './icone/icona-maskable-512.png'];
 self.addEventListener('install', e => {
   e.waitUntil(caches.open(VERSIONE).then(c => c.addAll(FILE)).then(() => self.skipWaiting()));
 });
